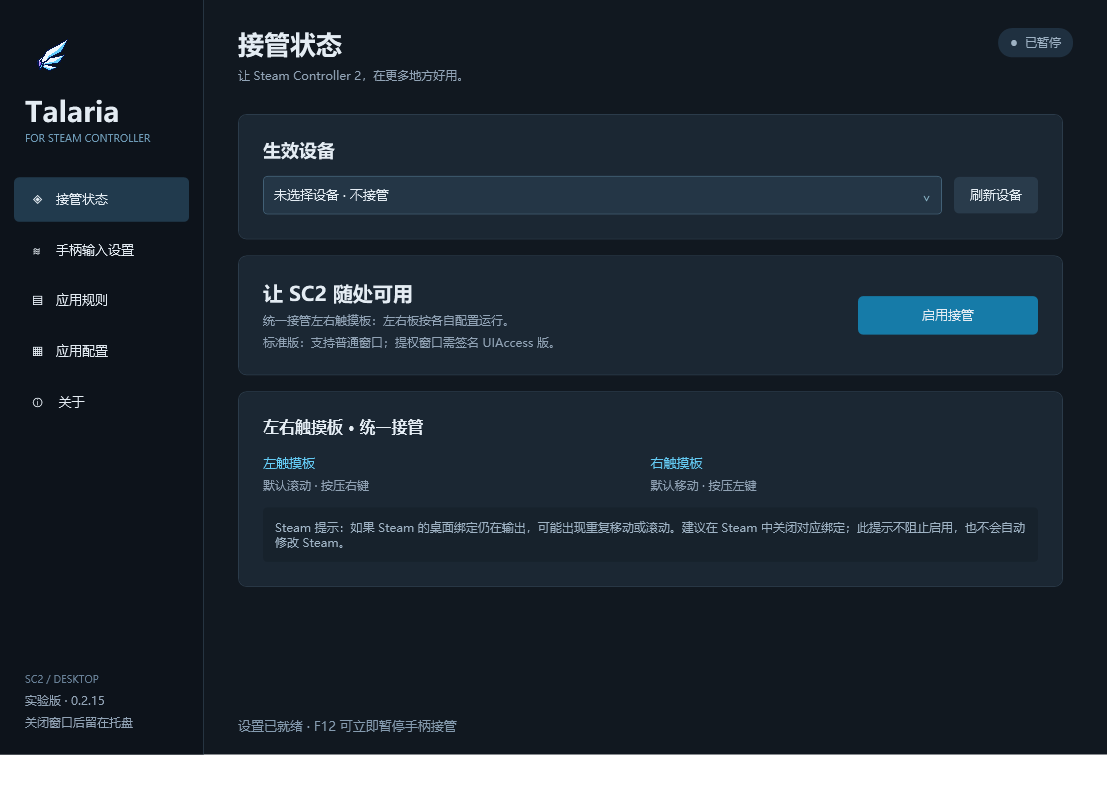
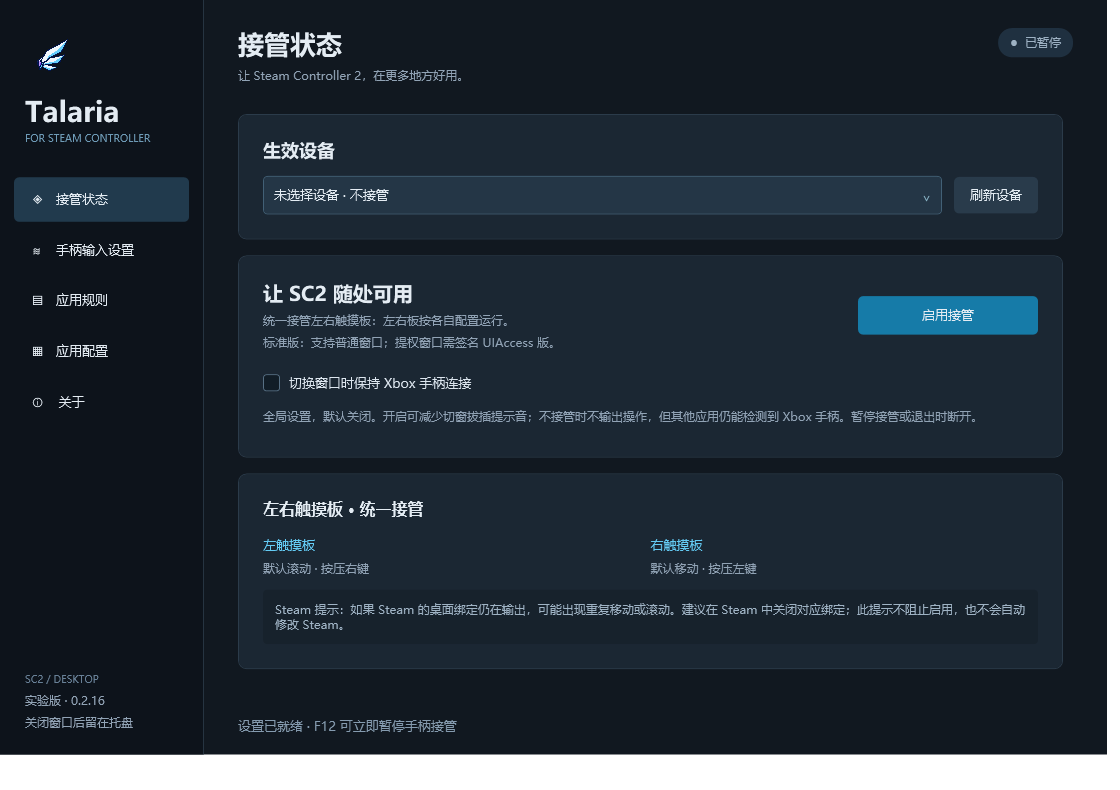
Release v0.2.16 with global Xbox connection policy and bilingual FAQ

diff --git a/src/Main.xaml b/src/Main.xaml
@@ -1,4 +1,4 @@
-<Window xmlns="http://schemas.microsoft.com/winfx/2006/xaml/presentation" xmlns:x="http://schemas.microsoft.com/winfx/2006/xaml" Title="Talaria" Width="1120" Height="790" MinWidth="980" MinHeight="700" WindowStartupLocation="CenterScreen" Background="#111820" Foreground="#E4ECF3" FontFamily="Microsoft YaHei UI" FontSize="13">
+<Window xmlns="http://schemas.microsoft.com/winfx/2006/xaml/presentation" xmlns:x="http://schemas.microsoft.com/winfx/2006/xaml" Title="Talaria" Width="1120" Height="790" MinWidth="980" MinHeight="700" WindowStartupLocation="CenterScreen" Background="#111820" Foreground="#E4ECF3" FontFamily="Microsoft YaHei UI" FontSize="13">
  <Window.Resources>
   <Style x:Key="ScopeSegment" TargetType="RadioButton">
    <Setter Property="Foreground" Value="#91A3B5"/><Setter Property="Background" Value="Transparent"/><Setter Property="Cursor" Value="Hand"/><Setter Property="Padding" Value="24,11"/><Setter Property="MinWidth" Value="160"/><Setter Property="FocusVisualStyle" Value="{x:Null}"/>
@@ -41,7 +41,7 @@
    <ScrollViewer x:Name="PageScroll" Grid.Row="1" VerticalScrollBarVisibility="Auto" HorizontalScrollBarVisibility="Disabled">
     <Grid Margin="0,16,10,0">
      <StackPanel x:Name="AboutPage" Visibility="Collapsed"/><StackPanel x:Name="DesktopPage">
-      <Border Style="{StaticResource Card}"><Grid><Grid.ColumnDefinitions><ColumnDefinition/><ColumnDefinition Width="180"/></Grid.ColumnDefinitions><StackPanel><TextBlock Text="让 SC2 随处可用" FontSize="20" FontWeight="SemiBold"/><TextBlock Text="统一接管左右触摸板：左右板按各自配置运行。" Style="{StaticResource Caption}"/><TextBlock x:Name="CapabilityHint" Text="标准版支持普通窗口；操作提权应用需要签名 UIAccess 版。" Style="{StaticResource Caption}"/></StackPanel><Button x:Name="ToggleRun" Grid.Column="1" Content="启用接管" Background="#167BA8" VerticalAlignment="Center"/></Grid></Border>
+      <Border Style="{StaticResource Card}"><Grid><Grid.RowDefinitions><RowDefinition Height="Auto"/><RowDefinition Height="Auto"/></Grid.RowDefinitions><Grid.ColumnDefinitions><ColumnDefinition/><ColumnDefinition Width="180"/></Grid.ColumnDefinitions><StackPanel><TextBlock Text="让 SC2 随处可用" FontSize="20" FontWeight="SemiBold"/><TextBlock Text="统一接管左右触摸板：左右板按各自配置运行。" Style="{StaticResource Caption}"/><TextBlock x:Name="CapabilityHint" Text="标准版支持普通窗口；操作提权应用需要签名 UIAccess 版。" Style="{StaticResource Caption}"/></StackPanel><Button x:Name="ToggleRun" Grid.Column="1" Content="启用接管" Background="#167BA8" VerticalAlignment="Center"/><StackPanel x:Name="ConnectionOptions" Grid.Row="1" Grid.ColumnSpan="2" Margin="0,14,0,0"/></Grid></Border>
       <Border Style="{StaticResource Card}"><StackPanel><TextBlock Text="左右触摸板 · 统一接管" FontSize="16" FontWeight="SemiBold"/><Grid Margin="0,18,0,14"><Grid.ColumnDefinitions><ColumnDefinition/><ColumnDefinition/></Grid.ColumnDefinitions><StackPanel><TextBlock Text="左触摸板" Foreground="#64CBF4"/><TextBlock Text="默认滚动 · 按压右键" Style="{StaticResource Caption}"/></StackPanel><StackPanel Grid.Column="1"><TextBlock Text="右触摸板" Foreground="#64CBF4"/><TextBlock Text="默认移动 · 按压左键" Style="{StaticResource Caption}"/></StackPanel></Grid><Border Background="#17222C" Padding="12" CornerRadius="4"><TextBlock Text="Steam 提示：如果 Steam 的桌面绑定仍在输出，可能出现重复移动或滚动。建议在 Steam 中关闭对应绑定；此提示不阻止启用，也不会自动修改 Steam。" Foreground="#9FB3C4" FontSize="12"/></Border></StackPanel></Border>
      </StackPanel>
      <StackPanel x:Name="TouchPage" Visibility="Collapsed">

diff --git a/src/engine/VirtualGamepad.cs b/src/engine/VirtualGamepad.cs
@@ -5,9 +5,10 @@ using System.Runtime.InteropServices;
 internal sealed class VirtualGamepad:IDisposable {
  [StructLayout(LayoutKind.Sequential,Pack=1)]internal struct Report{internal ushort Buttons;internal byte LT,RT;internal short LX,LY,RX,RY;}
  static readonly Dictionary<string,ushort> Flags=new Dictionary<string,ushort>{{"A",0x1000},{"B",0x2000},{"X",0x4000},{"Y",0x8000},{"LB",0x100},{"RB",0x200},{"VIEW",0x20},{"MENU",0x10},{"L3",0x40},{"R3",0x80},{"UP",1},{"DOWN",2},{"LEFT",4},{"RIGHT",8}};
- readonly HashSet<string> mapped=new HashSet<string>();readonly PadBook book;IntPtr client,target;Report physical;uint blocked;bool seeded;
+ readonly HashSet<string> mapped=new HashSet<string>();PadBook book;IntPtr client,target;Report physical;uint blocked;bool seeded;
  internal VirtualGamepad(PadBook book){this.book=book;try{client=vigem_alloc();if(client==IntPtr.Zero)throw new Exception(L.T("无法分配虚拟手柄客户端。"));Check(vigem_connect(client));target=vigem_target_x360_alloc();if(target==IntPtr.Zero)throw new Exception(L.T("无法分配虚拟手柄。"));Check(vigem_target_add(client,target));}catch{Dispose();throw;}Probe.Say("VIRTUAL X360 connected (selected SC2 input only)");}
  static void Check(uint result){if(result!=0x20000000)throw new Exception(L.T("虚拟手柄不可用（ViGEm 错误 0x")+result.ToString("X")+"）。");}
+ internal void Configure(PadBook next){Neutral();book=next;}
  internal void Button(string name,bool down){if(down)mapped.Add(name);else mapped.Remove(name);Send();}
  internal void Update(byte[] raw,uint bits){if(!seeded){blocked=bits;seeded=true;}blocked&=bits;physical=ConvertReport(book,raw,bits&~blocked);Send();}
  internal static Report ConvertReport(PadBook book,byte[] raw,uint bits){var r=new Report();var bindings=book.EffectiveBindings();foreach(var f in Flags){BindingAction a;if((bits&InputCatalog.Mask(f.Key))!=0 && (bindings.TryGetValue(f.Key,out a) && a.Kind=="gamepad" && a.Chord==f.Key))r.Buttons|=f.Value;}StickSources.Axes(book,raw,ref r);BindingAction t;if(bindings.TryGetValue("LT",out t) && t.Kind=="gamepad" && t.Chord=="LT")r.LT=Trigger(raw,6);if(bindings.TryGetValue("RT",out t) && t.Kind=="gamepad" && t.Chord=="RT")r.RT=Trigger(raw,8);PadSources.Axes(book,raw,bits,ref r);return r;}
@@ -15,7 +16,7 @@ internal sealed class VirtualGamepad:IDisposable {
  void Send(){var r=physical;foreach(string name in mapped){ushort f;if(Flags.TryGetValue(name,out f))r.Buttons|=f;else if(name=="LT")r.LT=255;else if(name=="RT")r.RT=255;}Check(vigem_target_x360_update(client,target,r));}
  internal void Neutral(){physical=new Report();mapped.Clear();seeded=false;blocked=0;Send();}
  public void Dispose(){if(target!=IntPtr.Zero){if(client!=IntPtr.Zero){vigem_target_x360_update(client,target,new Report());vigem_target_remove(client,target);}vigem_target_free(target);target=IntPtr.Zero;}if(client!=IntPtr.Zero){vigem_disconnect(client);vigem_free(client);client=IntPtr.Zero;}}
- internal static void Test(){var menuBook=new PadBook{GamepadEnabled=true};var menuRaw=new byte[48];menuRaw[0]=0x45;if(ConvertReport(menuBook,menuRaw,1u<<6).Buttons!=0x10 || ConvertReport(menuBook,menuRaw,1u<<14).Buttons!=0x20)throw new Exception("Physical Menu/View reversed");var b=new PadBook{GamepadEnabled=true,Bindings=new Dictionary<string,BindingAction>{{"A",new BindingAction{Kind="keyboard",Chord="Space"}}}};var raw=new byte[48];raw[0]=0x45;Array.Copy(BitConverter.GetBytes((short)32767),0,raw,6,2);Array.Copy(BitConverter.GetBytes((short)-12345),0,raw,10,2);var r=ConvertReport(b,raw,3);if(r.Buttons!=0x2000||r.LT!=255||r.LX!=-12345)throw new Exception("Virtual mapping suppressed/baseline/axes failed");}
+ internal static void Test(){string config=System.IO.Path.GetTempFileName();try{System.IO.File.WriteAllText(config,"keepVirtualConnected=True");if(!DesktopSettings.Load(config).KeepVirtualConnected)throw new Exception("Global keep connection load");System.IO.File.WriteAllText(config,"keepVirtualConnected=False");if(DesktopSettings.Load(config).KeepVirtualConnected)throw new Exception("Global disconnect load");System.IO.File.WriteAllText(config,"");if(DesktopSettings.Load(config).KeepVirtualConnected)throw new Exception("Keep connection must default off");}finally{System.IO.File.Delete(config);}var allowed=new PadBook{GamepadEnabled=true,VirtualOutputEnabled=true};if(!BridgePreview.VirtualOutputAllowed(true,allowed) || BridgePreview.VirtualOutputAllowed(false,allowed) || BridgePreview.VirtualOutputAllowed(true,null))throw new Exception("Foreground virtual output gate");allowed.VirtualOutputEnabled=false;if(BridgePreview.VirtualOutputAllowed(true,allowed))throw new Exception("Disabled profile virtual output gate");var menuBook=new PadBook{GamepadEnabled=true};var menuRaw=new byte[48];menuRaw[0]=0x45;if(ConvertReport(menuBook,menuRaw,1u<<6).Buttons!=0x10 || ConvertReport(menuBook,menuRaw,1u<<14).Buttons!=0x20)throw new Exception("Physical Menu/View reversed");var b=new PadBook{GamepadEnabled=true,Bindings=new Dictionary<string,BindingAction>{{"A",new BindingAction{Kind="keyboard",Chord="Space"}}}};var raw=new byte[48];raw[0]=0x45;Array.Copy(BitConverter.GetBytes((short)32767),0,raw,6,2);Array.Copy(BitConverter.GetBytes((short)-12345),0,raw,10,2);var r=ConvertReport(b,raw,3);if(r.Buttons!=0x2000||r.LT!=255||r.LX!=-12345)throw new Exception("Virtual mapping suppressed/baseline/axes failed");}
  [StructLayout(LayoutKind.Sequential)]struct State{internal uint Packet;internal Report Pad;}
  internal static void DeviceTest(){using(var form=new System.Windows.Forms.Form{Text=L.T("SC2 输出验证"),Width=420,Height=150,TopMost=true}){form.Show();form.Activate();System.Windows.Forms.Application.DoEvents();using(var pad=new VirtualGamepad(new PadBook())){uint index;Check(vigem_target_x360_get_user_index(pad.client,pad.target,out index));if(GetForegroundWindow()!=form.Handle)throw new Exception(L.T("输出验证窗口不在前台，已取消。"));pad.Button("A",true);State s;bool down=false;for(int i=0;i<20;i++){System.Threading.Thread.Sleep(25);if(XInputGetState(index,out s)==0 && (s.Pad.Buttons&0x1000)!=0){down=true;break;}}pad.Button("A",false);bool up=false;for(int i=0;i<20;i++){System.Threading.Thread.Sleep(25);if(XInputGetState(index,out s)==0 && s.Pad.Buttons==0){up=true;break;}}if(!down || !up)throw new Exception("XInput button readback failed");Probe.Say("VIRTUAL DEVICE PASS: XInput slot="+index+" A down/up verified; disposing device.");}form.Close();}}
  [DllImport("user32.dll")]static extern IntPtr GetForegroundWindow();

diff --git a/src/engine/BridgePreview.cs b/src/engine/BridgePreview.cs
@@ -22,12 +22,13 @@ internal sealed class BridgePreview
     string target = "unknown";
     BridgeClient client;VirtualGamepad gamepad;StandaloneInputLease standalone;
     bool useHelper, helperPreview, failed;
-    long heartbeat,summaryAt,reportCount,keyCount,mouseCount,gameButtonCount;
+    long leaseCheckAt,heartbeat,summaryAt,reportCount,keyCount,mouseCount,gameButtonCount;
     TouchFeedback feedback; IntPtr feedbackDevice; bool feedbackFailed, touchingRight;
     readonly FeedbackCadence cadence=new FeedbackCadence();
     internal void EnableHelper(bool dry) { useHelper = true; helperPreview = dry; }
     internal void Start() { if (useHelper) client = new BridgeClient(targets, helperPreview, settingsPath); }
     internal void Close() {if(standalone!=null){standalone.Dispose();standalone=null;} Probe.InputSummary(active,gamepad!=null,standalone==null?0:standalone.State,reportCount,keyCount,mouseCount,gameButtonCount); if(gamepad!=null){gamepad.Dispose();gamepad=null;} if(dual!=null){dual.Dispose();dual=null;} if(feedback!=null) { Probe.Say("HAPTICS ticks="+feedback.Sent+" error="+(feedback.Error??"none")); feedback.Dispose(); feedback=null; } if (client != null) { client.Dispose(); client = null; } }
+    internal static bool VirtualOutputAllowed(bool permitted,PadBook book){return permitted && book!=null && book.VirtualOutputEnabled && book.NeedsVirtualGamepad;}
     internal void AddTarget(string path)
     {
         if (!Path.IsPathRooted(path) || !File.Exists(path)) throw new ArgumentException("preview-target must be an existing absolute EXE path");
@@ -49,10 +50,13 @@ internal sealed class BridgePreview
         bool permitted = !failed && current != IntPtr.Zero && (settings == null ? targets.Contains(ProcessPath(currentPid) ?? "") : settings.Allows(ProcessPath(currentPid), current));
         if (current != window || currentPid != pid || permitted != active)
         {
-            Reset("foreground-change",currentPid!=pid || !permitted);
+            Reset("foreground-change",false);
             window = current; pid = currentPid; target = ProcessPath(currentPid);
             if(globalBook!=null){var chosen=appProfiles==null?globalBook:appProfiles.Select(target,globalBook);if(!object.ReferenceEquals(chosen,currentBook))SetBook(chosen);}
             active = permitted;
+            if(!VirtualOutputAllowed(active,currentBook) && standalone!=null){standalone.Dispose();standalone=null;}
+            if(gamepad!=null){if(VirtualOutputAllowed(active,currentBook))gamepad.Configure(currentBook);else if(settings==null || !settings.KeepVirtualConnected){gamepad.Dispose();gamepad=null;Probe.Say("VIRTUAL X360 disconnected: global keep connection disabled");}}
+            if(gamepad!=null)Probe.Say("VIRTUAL X360 retained on focus change; output="+VirtualOutputAllowed(active,currentBook));
             Probe.Say("MAPPING foreground=" + (target ?? "unknown") + " active=" + active + " output=" + (useHelper && !helperPreview ? "UIAccess mouse helper" : "PREVIEW ONLY"));
         }
         if (device != IntPtr.Zero && clock.ElapsedMilliseconds - lastReport > 500) Reset("input-timeout",false);
@@ -72,7 +76,7 @@ internal sealed class BridgePreview
         if(device!=handle){selectedInput=directHid?HidDiscovery.Enumerate().Find(d=>DeviceGate.Allows(d.Type,d.Vid,d.Pid,d.Page,d.Usage,d.Path,Probe.DevicePath)):Devices.Read(handle,2);verifiedBle=!directHid && DeviceGate.VerifiedBle(selectedInput);firmwareControl=DeviceGate.FirmwareKeyboardControl(selectedInput);}
         device = handle; lastReport = clock.ElapsedMilliseconds;
         touchingRight=decoded && (bits&0x200000)!=0;
-        if(decoded && currentBook!=null && currentBook.VirtualOutputEnabled && currentBook.NeedsVirtualGamepad && useHelper && !helperPreview){if(gamepad==null){gamepad=new VirtualGamepad(currentBook);if(firmwareControl && !StandaloneInputLease.SteamRunning())standalone=new StandaloneInputLease(selectedInput);}gamepad.Update(bytes,bits);reportCount++;}
+        if(decoded && VirtualOutputAllowed(active,currentBook) && useHelper && !helperPreview){if(gamepad==null)gamepad=new VirtualGamepad(currentBook);if(standalone==null && firmwareControl && clock.ElapsedMilliseconds>=leaseCheckAt){leaseCheckAt=clock.ElapsedMilliseconds+1000;if(!StandaloneInputLease.SteamRunning())standalone=new StandaloneInputLease(selectedInput);}gamepad.Update(bytes,bits);reportCount++;}
         Emit(ownership.Mix(dual==null?engine.Step(bytes):dual.Step(bytes,handle,window,useHelper && !helperPreview && verifiedBle),0), "mapped");
         if(decoded && bindings!=null){Emit(stickSources.Mouse(currentBook,bytes,clock.ElapsedMilliseconds),"stick");ulong sources=dual==null?bits:padSources.Read(currentBook,bytes,bits,dual.Pressed(0),dual.Pressed(1));Emit(ownership.Mix(bindings.Step(sources,clock.ElapsedMilliseconds),1),"button");}
     }
@@ -89,7 +93,7 @@ internal sealed class BridgePreview
         if(action.StartsWith("KeyDown") || action.StartsWith("KeyUp") || action=="ToggleKeyboard")keyCount++;
         if(action.StartsWith("Move ") || action.StartsWith("Wheel ") || action.StartsWith("MouseDown") || action.StartsWith("MouseUp") || action=="LeftDown" || action=="LeftUp" || action=="RightDown" || action=="RightUp")mouseCount++;
         if(action.StartsWith("GameDown") || action.StartsWith("GameUp"))gameButtonCount++;
-        if(action.StartsWith("GameDown button=") || action.StartsWith("GameUp button=")){if(gamepad!=null)gamepad.Button(action.Substring(action.IndexOf('=')+1),action.StartsWith("GameDown"));return;}
+        if(action.StartsWith("GameDown button=") || action.StartsWith("GameUp button=")){if(gamepad!=null && VirtualOutputAllowed(active,currentBook))gamepad.Button(action.Substring(action.IndexOf('=')+1),action.StartsWith("GameDown"));return;}
         if (client == null) return;
         try {
             client.Send(action, window, pid);

diff --git a/src/ButtonWorkspace.cs b/src/ButtonWorkspace.cs
@@ -6,9 +6,16 @@ using System.Windows.Controls;
 using System.Windows.Media;
 internal sealed partial class PadHop {
  readonly Dictionary<string,Button> bindingRows=new Dictionary<string,Button>();TextBlock outputSummary;CheckBox virtualOutputBox;bool loadingOutput;
+ void BuildConnectionSettings(){
+  var card=Get<StackPanel>("ConnectionOptions");string value;bool enabled=values.TryGetValue("keepVirtualConnected",out value) && string.Equals(value,"true",StringComparison.OrdinalIgnoreCase);
+  var toggle=new CheckBox{Content=L.T("切换窗口时保持 Xbox 手柄连接"),IsChecked=enabled};card.Children.Add(toggle);
+  Hint(card,L.T("全局设置，默认关闭。开启可减少切窗拔插提示音；不接管时不输出操作，但其他应用仍能检测到 Xbox 手柄。暂停接管或退出时断开。"));
+  RoutedEventHandler change=delegate{Guard(delegate{values["keepVirtualConnected"]=(toggle.IsChecked==true).ToString();SaveRules();Notice(L.T("虚拟手柄连接设置已保存；适用于所有应用，试用期间的更改在结束试用后生效。"));});};toggle.Checked+=change;toggle.Unchecked+=change;
+ }
  void BuildButtons(){var page=Get<StackPanel>("TouchPage");var card=Card(page,L.T("按位置设置按键"));var box=(UIElement)card.Parent;page.Children.Remove(box);page.Children.Insert(1,box);
  Hint(card,L.T("L 是左手，R 是右手。点一下按键卡片，直接编辑动作。"));
- virtualOutputBox=new CheckBox{Content=L.T("启用虚拟 Xbox 手柄（供游戏识别）")};card.Children.Add(virtualOutputBox);virtualOutputBox.Checked+=delegate{if(!loadingOutput){padBook.VirtualOutputEnabled=true;SyncButtons();UpdateFullStatus();}};virtualOutputBox.Unchecked+=delegate{if(!loadingOutput){padBook.VirtualOutputEnabled=false;SyncButtons();UpdateFullStatus();}};outputSummary=Hint(card,"");
+ virtualOutputBox=new CheckBox{Content=L.T("启用虚拟 Xbox 手柄（供游戏识别）")};card.Children.Add(virtualOutputBox);virtualOutputBox.Checked+=delegate{if(!loadingOutput){padBook.VirtualOutputEnabled=true;SyncButtons();UpdateFullStatus();}};virtualOutputBox.Unchecked+=delegate{if(!loadingOutput){padBook.VirtualOutputEnabled=false;SyncButtons();UpdateFullStatus();}};
+ outputSummary=Hint(card,"");
  var tabs=new TabControl{Background=Brushes.Transparent,BorderThickness=new Thickness(0),Margin=new Thickness(0,6,0,0)};card.Children.Add(tabs);
  string[][] groups={new[]{"LB","RB","LT","RT","L3","R3"},new[]{"L4","R4","L5","R5","LG","RG"},new[]{"UP","Y","LEFT","X","RIGHT","B","DOWN","A","VIEW","MENU","QAM"}};
  string[] names={L.T("肩键、扳机与摇杆"),L.T("背面 · 背键与握把"),L.T("正面 · 方向与按钮")};for(int i=0;i<groups.Length;i++){var panel=new StackPanel{Margin=new Thickness(0,10,0,0)};tabs.Items.Add(new TabItem{Header=names[i],Content=panel});var heading=new Grid();heading.ColumnDefinitions.Add(new ColumnDefinition());heading.ColumnDefinitions.Add(new ColumnDefinition());for(int side=0;side<2;side++){var t=new TextBlock{Text=i<2?(side==0?L.T("左手侧"):L.T("右手侧")):(side==0?L.T("方向与视图"):L.T("正面与菜单")),Foreground=Brushes.LightBlue,Margin=new Thickness(8,4,8,8)};heading.Children.Add(t);Grid.SetColumn(t,side);}panel.Children.Add(heading);var grid=new Grid();grid.ColumnDefinitions.Add(new ColumnDefinition());grid.ColumnDefinitions.Add(new ColumnDefinition());panel.Children.Add(grid);for(int j=0;j<groups[i].Length;j++){if(j%2==0)grid.RowDefinitions.Add(new RowDefinition{Height=GridLength.Auto});string input=groups[i][j];var button=new Button{HorizontalContentAlignment=HorizontalAlignment.Stretch,Padding=new Thickness(14,10,14,10),Margin=new Thickness(0,0,j%2==0?8:0,8)};grid.Children.Add(button);Grid.SetRow(button,j/2);Grid.SetColumn(button,j%2);bindingRows[input]=button;button.Click+=delegate{EditBinding(input);};}}BuildStickEditor(tabs);tabs.SelectedIndex=1;SyncButtons();

diff --git a/src/App.cs b/src/App.cs
@@ -78,7 +78,7 @@ internal sealed partial class PadHop
   if(live){window.SourceInitialized+=delegate{CreateTray();InstallShellHook();};timer.Interval=TimeSpan.FromMilliseconds(750);timer.Tick+=delegate{Poll();};timer.Start();}
   window.Closing+=delegate(object sender,System.ComponentModel.CancelEventArgs e){if(exiting && recorder!=null){e.Cancel=true;exiting=false;File.WriteAllText(recordResult+".stop","stop");Notice(L.T("正在结束录制，请收尾后再退出。"));return;}if(!exiting && tray!=null){Guard(delegate{Save();});e.Cancel=true;window.Hide();tray.ShowBalloonTip(2000,"Talaria",L.T("已收起到托盘。右键图标可暂停或退出。"),Forms.ToolTipIcon.Info);}};
   window.Closed+=delegate{StopActivation();timer.Stop();Stop();if(tray!=null){tray.Visible=false;tray.Dispose();}if(live)Application.Current.Shutdown();};
-  BuildWorkspace();BuildButtons();BuildApplications();BuildDevices(live);BuildScope();if(live)SaveLibrary();UpdateNumbers();Navigate("Desktop");ready=true;BuildAbout(live);BuildSigningMaintenance(live);
+  BuildWorkspace();BuildButtons();BuildApplications();BuildDevices(live);BuildConnectionSettings();BuildScope();if(live)SaveLibrary();UpdateNumbers();Navigate("Desktop");ready=true;BuildAbout(live);BuildSigningMaintenance(live);
  }
  void Guard(Action a){try{a();}catch(Exception e){Notice(e.Message);MessageBox.Show(window,e.Message,"Talaria",MessageBoxButton.OK,MessageBoxImage.Information);}}
  void Notice(string s){Get<TextBlock>("Footer").Text=s;}

diff --git a/src/engine/DesktopSettings.cs b/src/engine/DesktopSettings.cs
@@ -11,7 +11,7 @@ internal sealed class DesktopSettings
     internal string AppProfiles;internal readonly List<string> ProfileTargets=new List<string>();internal string PadProfiles; internal string DevicePath="";
     internal double DragThresholdPx=0;
     internal double Speed = 0.02, SmoothMs = 12, Friction = 8, ScrollUnits = 2000;
-    internal bool Inertia = true, Global, SteamDesktopMuted;
+    internal bool Inertia = true, Global, SteamDesktopMuted, KeepVirtualConnected;
     internal bool PressureClick;internal bool HardwarePadClick=false;
     internal bool RightHaptics=true, MotionHaptics=false, LeftScroll=false;
     internal double HapticGain=-12;
@@ -48,6 +48,7 @@ internal sealed class DesktopSettings
                 case "friction": s.Friction = Number(v, 1, 30); break;
                 case "scrollUnits": s.ScrollUnits = Number(v, 200, 20000); break;
                 case "inertia": s.Inertia = bool.Parse(v); break;
+                case "keepVirtualConnected": s.KeepVirtualConnected=bool.Parse(v);break;
                 case "global": s.Global = bool.Parse(v); break;
                 case "steamDesktopMuted": s.SteamDesktopMuted = bool.Parse(v); break;
                 case "allow": s.Allow.Add(Absolute(v)); break;

diff --git a/docs/faq.md b/docs/faq.md
@@ -1,0 +1,33 @@
+# 常见问题
+
+[English](faq.en.md) · [返回 README](../README.md) · [反馈问题](https://github.com/csvwolf/talaria/issues)
+
+本文随源码和版本维护。欢迎通过 Issue 提问、PR 补充；不需要另开 Wiki 仓库。
+
+## Steam Input 和 Xbox 模拟有什么区别？
+
+Steam Input 是 Steam 官方映射系统。Talaria 的 Xbox 模拟额外创建一个虚拟 Xbox 手柄，不会把物理 Steam Controller 改成 Xbox。同一个游戏应避免两套映射同时输出。关闭 Talaria 的 Xbox 输出后，键鼠和宏仍可用；游戏的手柄输入可以由 Steam Input 或游戏原生支持提供。
+
+## 切窗为什么有设备拔插提示音？
+
+虚拟手柄断开、重建时 Windows 可能播放提示音。「接管状态」里的全局「切换窗口时保持 Xbox 手柄连接」可减少这些声音，默认关闭。开启后不接管的窗口不会收到 Talaria 操作，但仍可能看到空闲手柄或占用玩家槽位。暂停接管或退出会断开。
+
+## 多个游戏会各创建一个 Xbox 手柄吗？
+
+不会，当前 Talaria 共用一个虚拟 Xbox 手柄。切换前台时松开按键、清零摇杆，并加载对应配置。两个应用都需要 Xbox 输出时直接复用；不需要输出时是否断开由全局保持连接开关决定，不取决于上一份应用配置。
+
+## 加入排除名单后，为什么游戏还能看到手柄？
+
+排除名单控制 Talaria 是否输出，不会隐藏物理设备或禁用 Steam Input。保持连接开启时，空闲虚拟手柄也可能仍然可见。若要排查，暂停 Talaria 移除其虚拟设备。仅排除 steam.exe 不会排除游戏，需要加入实际游戏 EXE。
+
+## Steam 游戏按键没反应怎么排查？
+
+先暂停 Talaria 做对照测试，再检查 Steam 的设备检测、该游戏的 Steam Input 配置及游戏内输入设置。区分“未识别设备”和“已识别但映射不适用”；支持手柄不代表任意模板都适用。重新插拔后有些游戏可能需要重启才能重新枚举设备，先保存游戏进度。对照测试仍无效时，不应直接归因于 Talaria。
+
+## 录制组件已安装，还要再安装吗？
+
+不需要。已有配置时显示「检查录制组件」，只检查不下载；检查失败后提供修复。首次安装会显示检测、下载、校验和安装阶段。详细步骤见[触觉录制](capture.md)。
+
+## 怎么提供诊断日志？
+
+「关于 → 诊断与日志」可查看最近日志、设备诊断日志和日志文件夹；录制区域可打开组件安装日志。内置查看器支持刷新和复制。日志在 `%LOCALAPPDATA%/Talaria/logs`。反馈时附软件版本、连接方式、复现步骤和相关时间段，分享前检查路径及设备标识；不要上传整个原始蓝牙采集目录。详见[隐私说明](privacy.md)。

diff --git a/docs/faq.en.md b/docs/faq.en.md
@@ -1,0 +1,33 @@
+# Frequently asked questions
+
+[简体中文](faq.md) · [README](../README.en.md) · [Report an issue](https://github.com/csvwolf/talaria/issues)
+
+This FAQ is versioned with the source. Submit questions through Issues or improvements through PRs.
+
+## Steam Input versus Xbox output
+
+Steam Input is Steam's own mapping system. Talaria creates an additional virtual Xbox controller; it does not convert the physical Steam Controller. Avoid competing mappings for the same game. Without Talaria Xbox output, keyboard, mouse and macros remain available; Steam Input or native game support can provide controller input.
+
+## Device sounds when switching windows
+
+Windows may play a sound when the virtual controller disconnects or reconnects. The global keep-connected switch on Input status reduces this and defaults to off. Outside active apps, a retained controller sends no actions but remains visible and may occupy a player slot. Pausing or exiting removes it.
+
+## Does each app get a separate Xbox controller?
+
+No. Talaria reuses one virtual controller, releases held inputs and loads the foreground profile. Apps that both need Xbox output reuse it directly. Otherwise the global keep-connected setting determines whether it disconnects; the previous app's profile does not decide this.
+
+## Why can excluded games still see a controller?
+
+Exclusions stop Talaria output; they do not hide physical devices or disable Steam Input. A retained virtual controller may also remain visible. Pause Talaria to remove it during diagnosis. Exclude the game's executable, not just steam.exe.
+
+## A Steam game does not respond
+
+Pause Talaria for comparison, then check Steam device detection, the game's Steam Input mapping and in-game input settings. Device detection and usable mapping are separate questions. Some games may need restarting after reconnecting a controller; save progress first. A failure that persists with Talaria paused should not automatically be attributed to Talaria.
+
+## Recording components are already installed
+
+Use Check recording components; it does not download or reinstall anything. Failed checks offer repair. First-time installation shows detection, download, verification and installation stages. See the [recording guide](capture.md).
+
+## Sharing diagnostic logs
+
+About provides recent logs, device diagnostics and the logs folder. The recording section provides component setup logs. Viewers support refresh and copy. Files live in `%LOCALAPPDATA%/Talaria/logs`. Include app version, connection type, reproduction steps and the relevant time range. Review paths and device identifiers before sharing; do not upload entire raw Bluetooth capture directories. See [privacy](privacy.md).

diff --git a/README.en.md b/README.en.md
@@ -60,6 +60,17 @@ Automatic update checks are **on by default** and can be disabled in About. Your
 
 Closing the window minimizes to tray. Launching again activates the existing instance. Data lives in `%LOCALAPPDATA%/PadHop` and survives uninstall. Use Share current profile when sharing with others; a full backup includes local application paths. Logs may contain paths and device identifiers: review before sharing.
 
+## Xbox output and window switching
+
+**Enable virtual Xbox controller** belongs to each global/app profile. **Keep Xbox controller connected when switching windows**, below Enable input on the status page, is a global setting. It defaults to off and saves automatically.
+
+- Switching between apps that both need Xbox output reuses one virtual controller, clears held input and loads the foreground mapping.
+- With keep-connected off, entering an excluded app or a profile without Xbox output disconnects the device. Returning reconnects it and may play Windows device sounds.
+- With keep-connected on, the device remains after its first creation, with neutral input outside active apps. Other apps can still detect it or assign it a player slot. Pausing or exiting removes it.
+- Avoid competing Steam Input and Talaria mappings. Leave keep-connected off when alternating between them if the idle device causes trouble. Exclude the game executable itself; excluding Steam does not exclude all Steam games.
+
+See the [FAQ](docs/faq.en.md) for troubleshooting. Questions and improvements are welcome through Issues and PRs.
+
 ## Recording components and logs
 
 Ordinary mappings and presets do not need recording components. For Bluetooth haptic recording, open the recording section under **Controller settings → Haptic feedback**:

diff --git a/CHANGELOG.md b/CHANGELOG.md
@@ -1,5 +1,11 @@
 # Changelog
 
+## 0.2.16
+
+- Reuse one virtual Xbox device when switching between apps that need gamepad output; release held inputs and load the foreground profile without reconnecting.
+- Add a global, default-off Keep Xbox controller connected switch below Enable input. Retained devices stay neutral outside active apps and disconnect on pause or exit. Xbox output remains a per-profile choice.
+- Add bilingual FAQ pages covering Steam Input, connection behavior, recording setup and diagnostics.
+
 ## 0.2.15 — replacement package
 
 - Fix recording setup launched from PowerShell 7 environments: load Windows PowerShell system modules explicitly so Microsoft signature validation is available.
